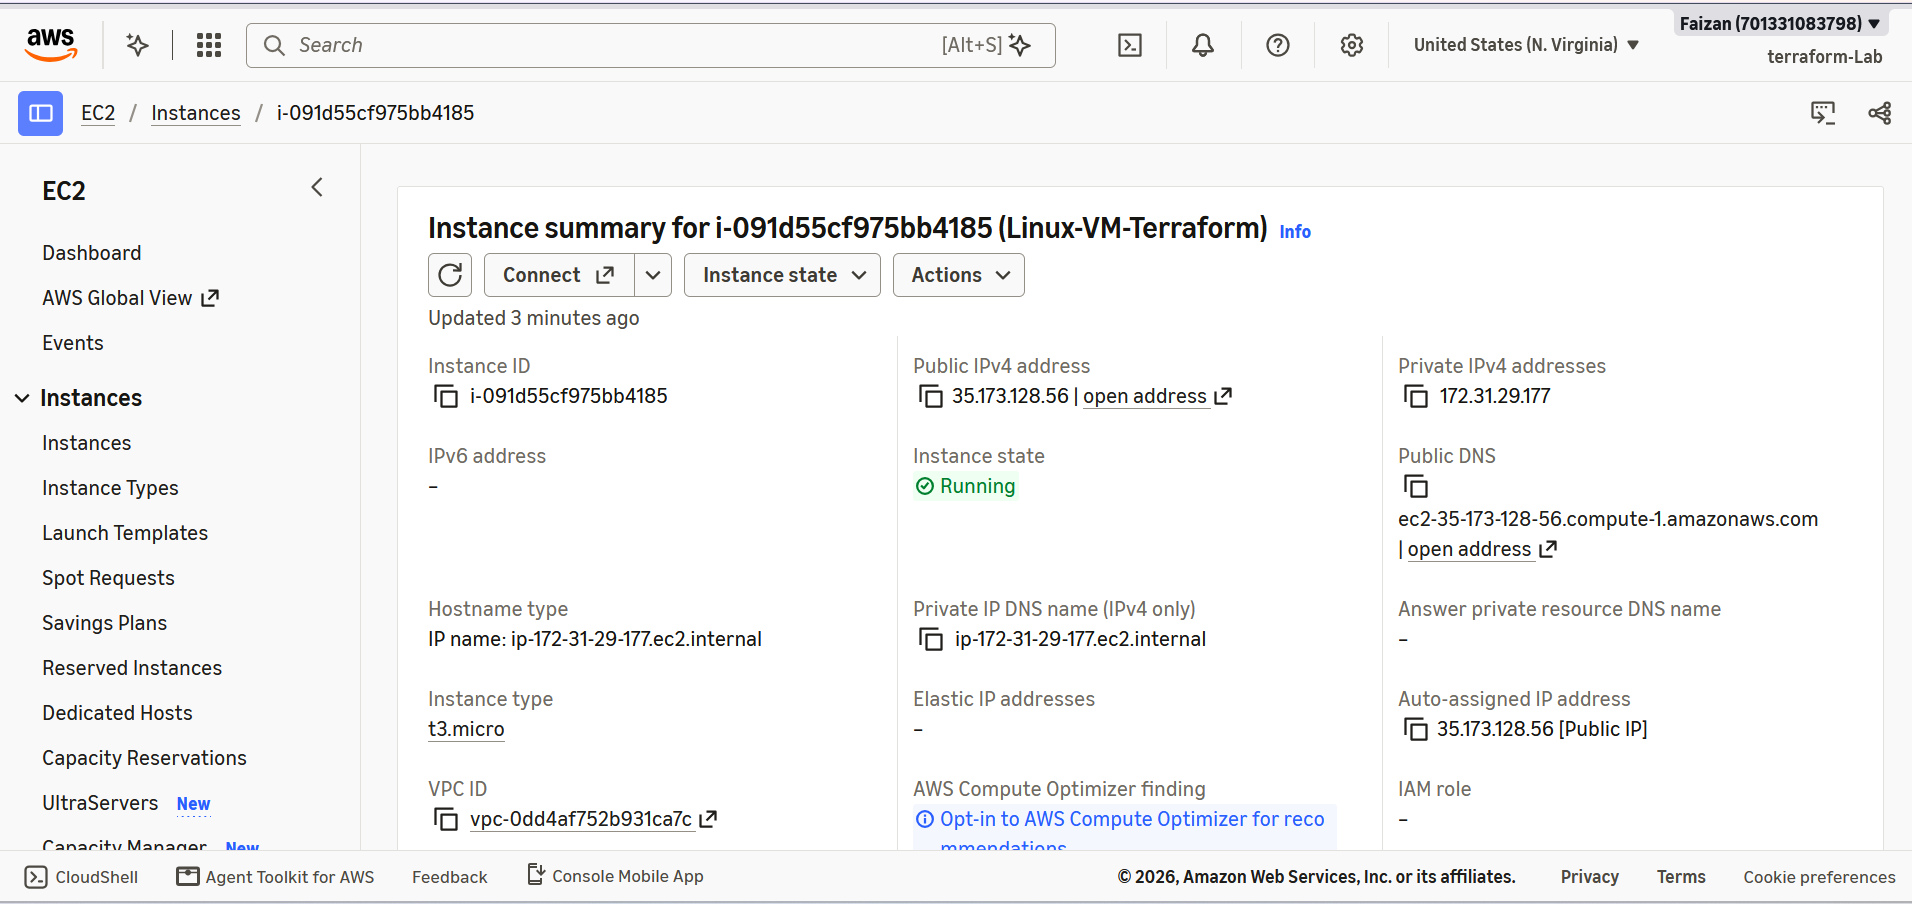
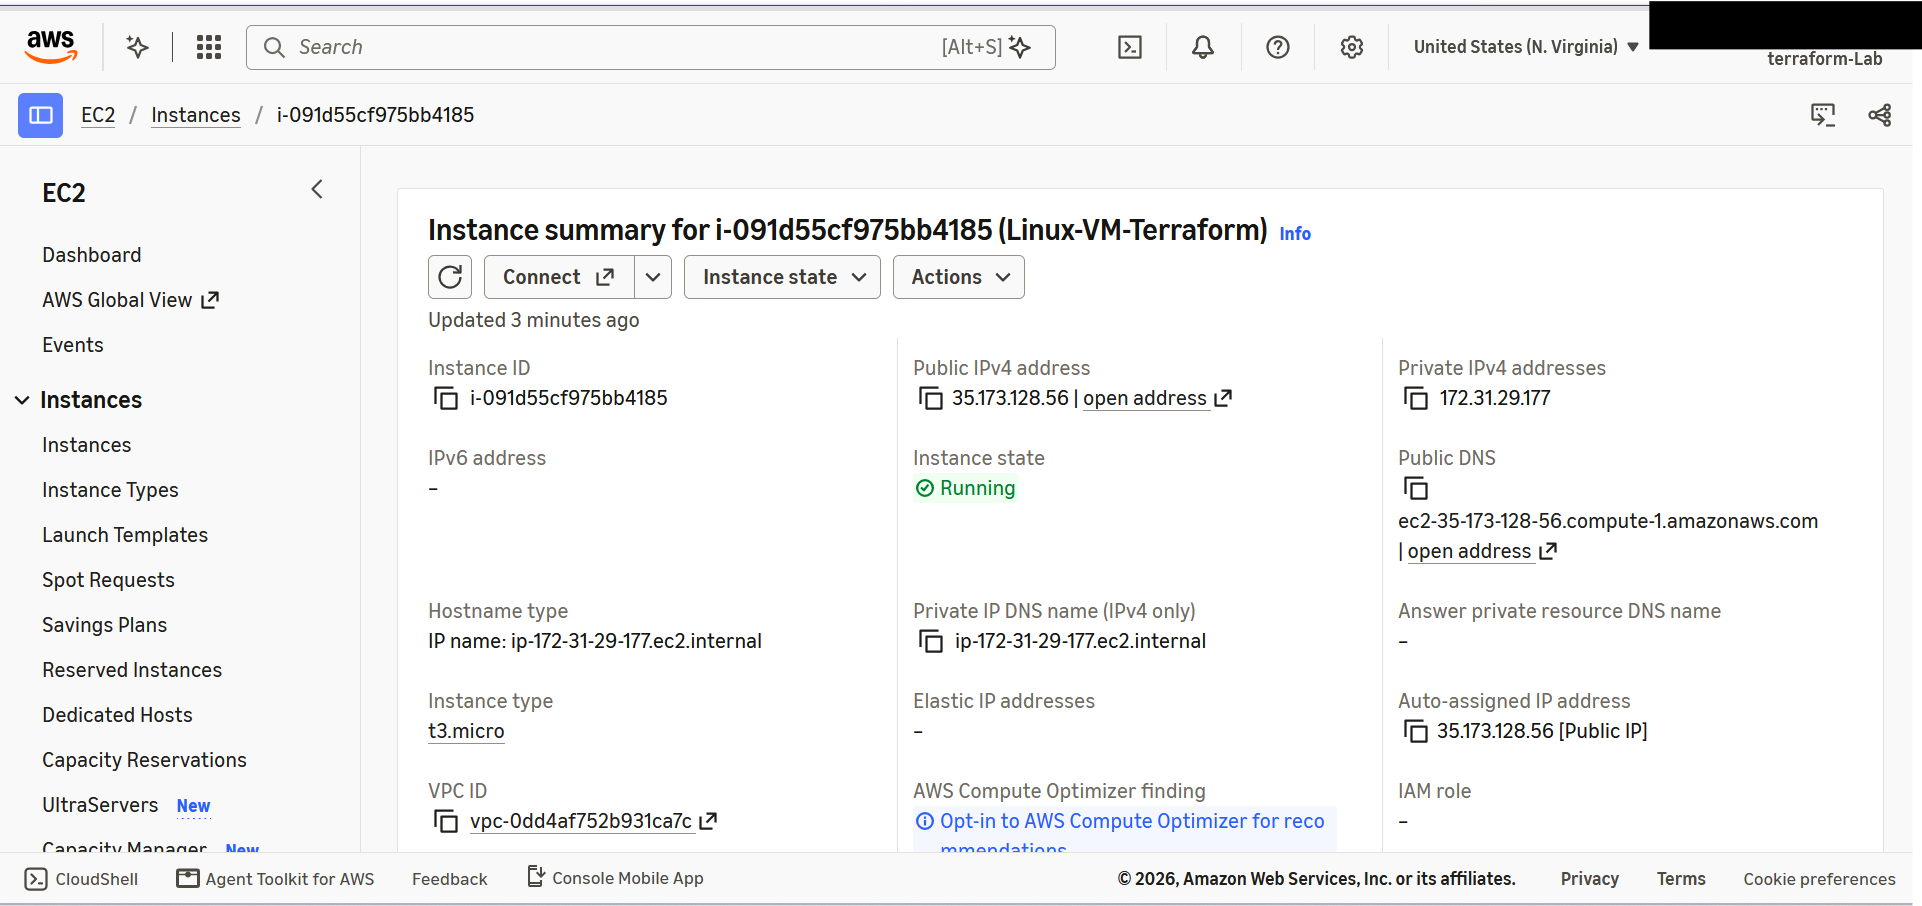
Output Variables and Data Sources Lab First Commit

diff --git a/02-Data-Source/README.md b/02-Data-Source/README.md
@@ -1,0 +1,170 @@
+# Terraform EC2 Deployment – Amazon Linux 2023
+
+## Project Overview
+
+This project demonstrates how to provision an Amazon EC2 instance running **Amazon Linux 2023** using Terraform (Infrastructure as Code).
+
+Instead of manually creating AWS resources through the AWS Management Console, Terraform automates the deployment of the required infrastructure.
+
+The configuration uses an AMI data source to dynamically retrieve the specified Amazon Linux 2023 AMI, creates a Security Group, and deploys an EC2 instance with a startup script (`user_data.sh`).
+
+## Technologies Used
+
+- **Cloud Provider:** AWS
+- **Infrastructure as Code:** Terraform
+- **Compute Service:** Amazon EC2
+- **Operating System:** Amazon Linux 2023
+- **Networking:** AWS Security Groups
+- **Automation:** EC2 User Data (Shell Script)
+- **Version Control:** Git & GitHub
+
+## Project Structure
+
+```text
+02-EC2-Amazon-Linux/
+│
+├── main.tf
+├── variables.tf
+├── outputs.tf
+├── provider.tf
+├── user_data.sh
+├── terraform.tfvars
+├── .gitignore
+└── README.md
+```
+
+## Infrastructure Components
+
+### 1. AMI Data Source
+
+Used Terraform's `aws_ami` data source to retrieve the Amazon Linux 2023 AMI.
+
+- Retrieves the most recent matching AMI.
+- Uses the official Amazon owner ID.
+- Filters the AMI using its specified name.
+- Passes the retrieved AMI ID to the EC2 resource.
+
+### 2. Security Group
+
+Created an AWS Security Group to control inbound and outbound traffic.
+
+| Protocol | Port | Access |
+|---|---:|---|
+| SSH | 22 | Allowed |
+| HTTP | 80 | Allowed |
+| HTTPS | 443 | Allowed |
+| All outbound traffic | All | Allowed |
+
+### 3. EC2 Instance
+
+Provisioned an EC2 instance with the following configuration:
+
+- **AMI:** Amazon Linux 2023
+- **Instance Type:** Configurable through Terraform variables (Default: `t3.micro`)
+- **Key Pair:** Existing AWS Key Pair (`EC2_kp`)
+- **Security Group:** Terraform-managed Security Group
+- **User Data:** Executes the `user_data.sh` startup script.
+- **Name Tag:** Amazon Linux Machine
+
+### 4. Terraform Output Variables
+
+Configured output variables to display important information after deployment.
+
+- AMI ID
+- AMI Name
+- EC2 Instance ID
+- EC2 Public IP
+- Security Group Name
+
+## Deployment Process
+
+### Step 1: Initialize Terraform
+
+```bash
+terraform init
+```
+
+Downloads the required AWS provider and initializes the working directory.
+
+### Step 2: Validate Configuration
+
+```bash
+terraform validate
+```
+
+Checks the Terraform configuration for syntax and configuration errors.
+
+### Step 3: Review Execution Plan
+
+```bash
+terraform plan
+```
+
+Displays the infrastructure changes Terraform intends to perform.
+
+### Step 4: Deploy Infrastructure
+
+```bash
+terraform apply
+```
+
+Creates the AWS Security Group and EC2 instance.
+
+### Step 5: View Outputs
+
+```bash
+terraform output
+```
+
+Displays the configured output values, including the EC2 public IP.
+
+### Step 6: Destroy Infrastructure
+
+```bash
+terraform destroy
+```
+
+Removes the infrastructure provisioned by Terraform.
+
+## Screenshots
+
+### 1. Terraform Deployment
+
+![Terraform Deployment](images/terraform_apply.png)
+
+### 2. Output Variables 
+
+![OutPut Variables](images/output_variables.png)
+
+### 3. EC2 Instance Output
+
+![EC2 Instance](images/Ec2_Instance.png)
+
+### 4. Security Group Configuration
+
+![Security Group](images/SecurityGroup.png)
+
+### 5. Apache Output
+
+![Apache Output](images/Appache_output.png)
+
+## Key Learnings
+
+Through this project, I gained hands-on experience with:
+
+- Using Terraform data sources to retrieve existing AWS resources.
+- Automating AWS Security Group creation.
+- Deploying EC2 instances using Terraform.
+- Referencing resources and data sources within Terraform configurations.
+- Using input variables to make configurations reusable.
+- Using EC2 User Data for instance initialization.
+- Defining Terraform output variables.
+- Managing AWS infrastructure through Infrastructure as Code.
+
+## Conclusion
+
+This project demonstrates the practical use of Terraform to automate AWS infrastructure provisioning. It reduces manual configuration, improves consistency, and provides a repeatable approach to deploying cloud resources.
+
+**Author:** Faizan Afzal
+
+**GitHub:** [GitHub Profile](https://github.com/)
